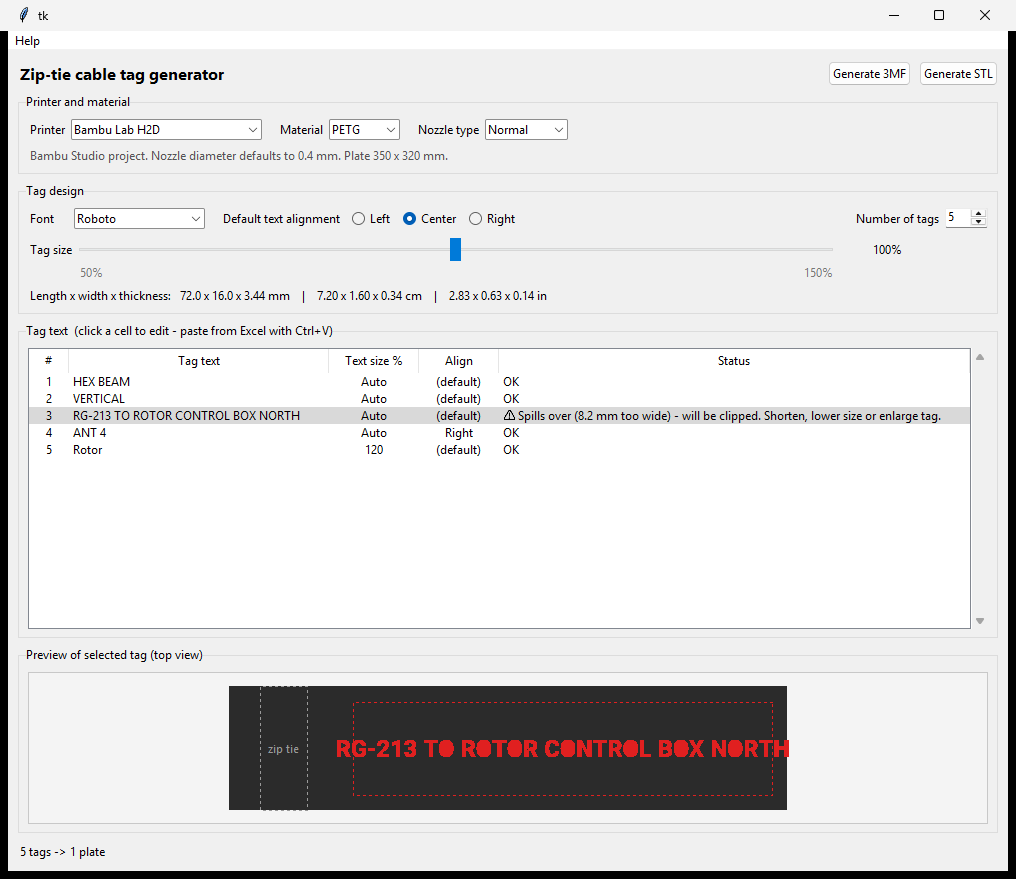
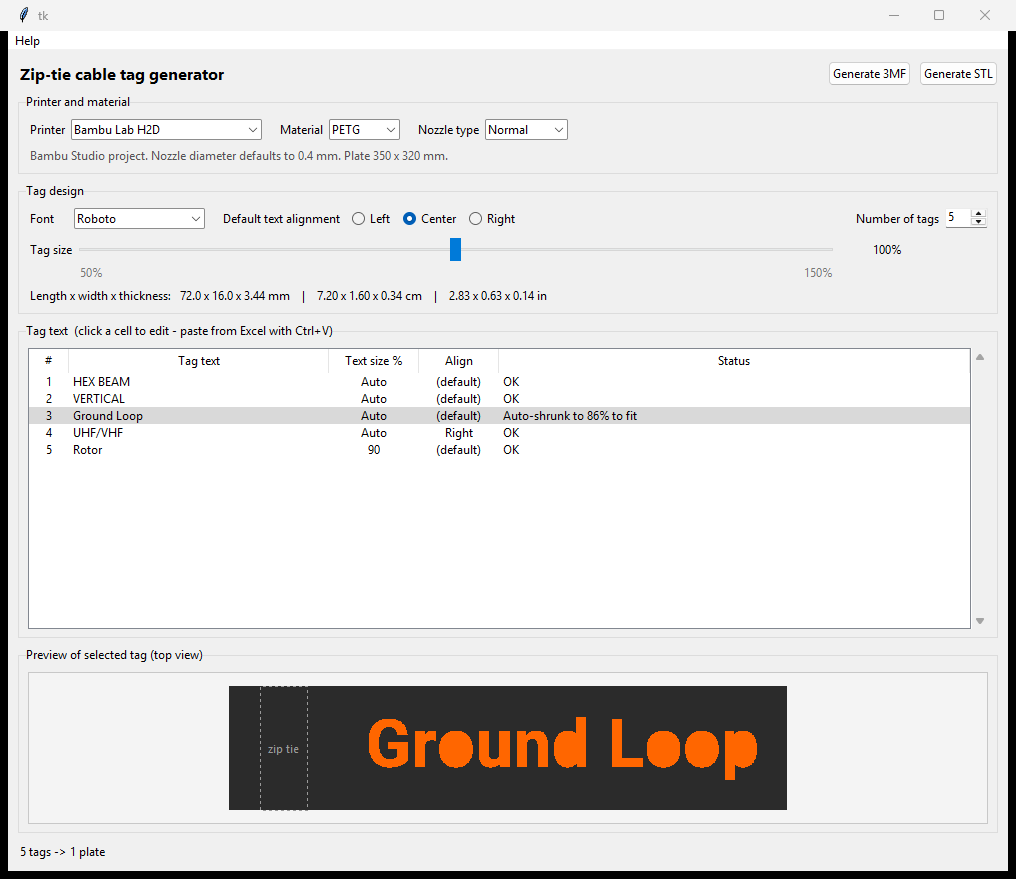
Docs: readable UI screenshot, Bambu Studio plate screenshot, download/run options
- Replace README screenshot (selected tag text now fits and is readable).
- Add Bambu Studio screenshot and explain that Generate 3MF opens one or more
  plates depending on the number of tags.
- Show both ways to run: download ZiptieTags.exe from Releases, or run with Python.

diff --git a/README.md b/README.md
@@ -3,7 +3,29 @@
 Windows desktop app that generates **zip-tie cable tag 3MF files**: a black tag body with the text
 inlaid flush in orange, ready for Bambu Studio (or any slicer via a plain 3MF).
 
-![screenshot](docs/screenshot.png)
+![Ziptie Tags window](docs/screenshot.png)
+
+## Get it
+
+**Option 1 - download the .exe (no Python needed):** grab `ZiptieTags.exe` from the
+[latest release](https://github.com/gauthig/Ziptie-Tags/releases/latest) and double-click it.
+
+**Option 2 - run with Python:**
+
+```powershell
+git clone https://github.com/gauthig/Ziptie-Tags.git
+cd Ziptie-Tags
+python -m pip install -r requirements.txt
+python ziptie_tags.py
+```
+
+## What you get in Bambu Studio
+
+**Generate 3MF** writes a Bambu Studio project. When you open it, Bambu Studio shows **one or more plates**,
+as many as needed for the number and size of your tags. Tags are arranged automatically, with room left for the
+prime tower. Body is filament 1 (black), text is filament 2 (orange).
+
+![Tags opened in Bambu Studio](docs/bambu_studio_plate.png)
 
 ## Features
 
@@ -21,13 +43,6 @@ inlaid flush in orange, ready for Bambu Studio (or any slicer via a plain 3MF).
   standard Save As dialog
 
 Nozzle diameter defaults to **0.4 mm**. Layer plan: 0.20 mm body, top 0.64 mm (the text) at 0.08 mm.
-
-## Run from source
-
-```powershell
-python -m pip install -r requirements.txt
-python ziptie_tags.py
-```
 
 ## Build the .exe
 
